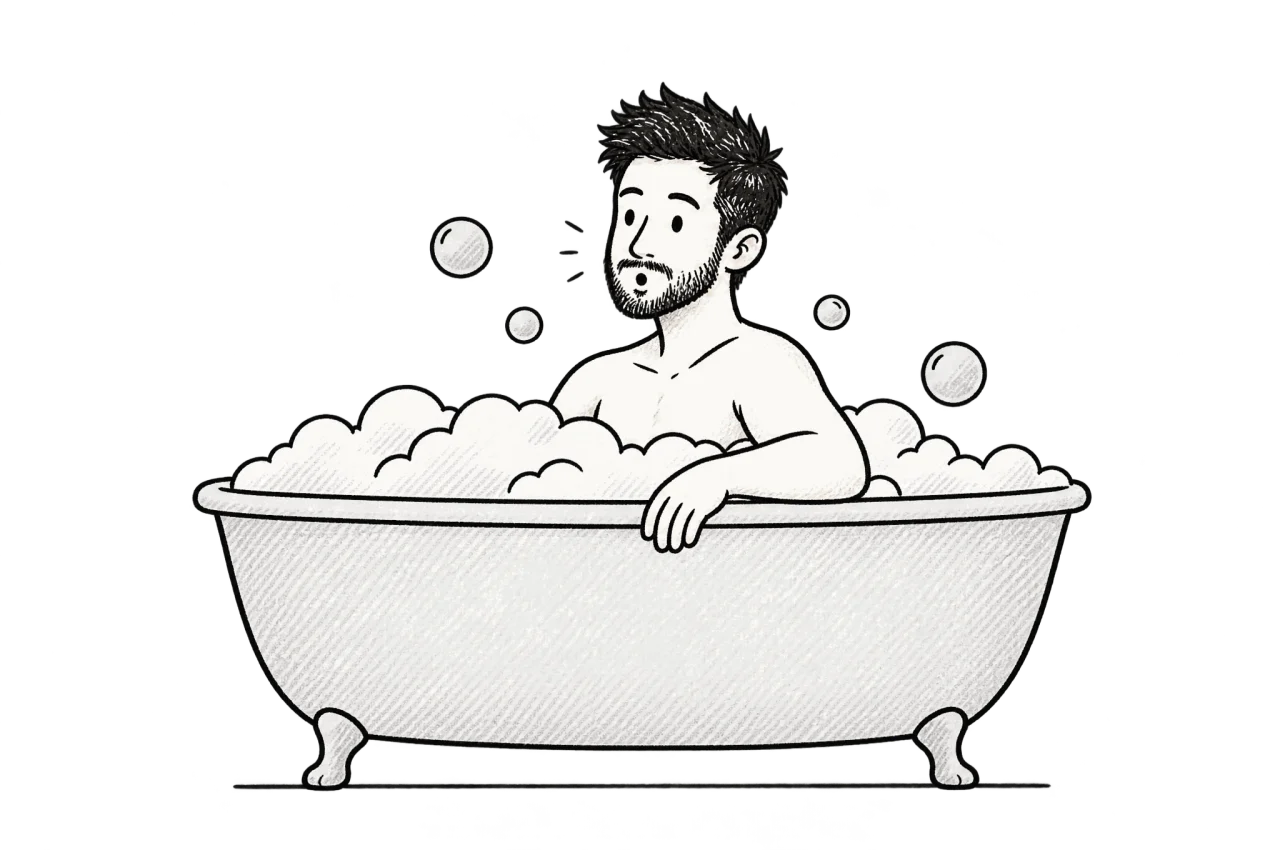
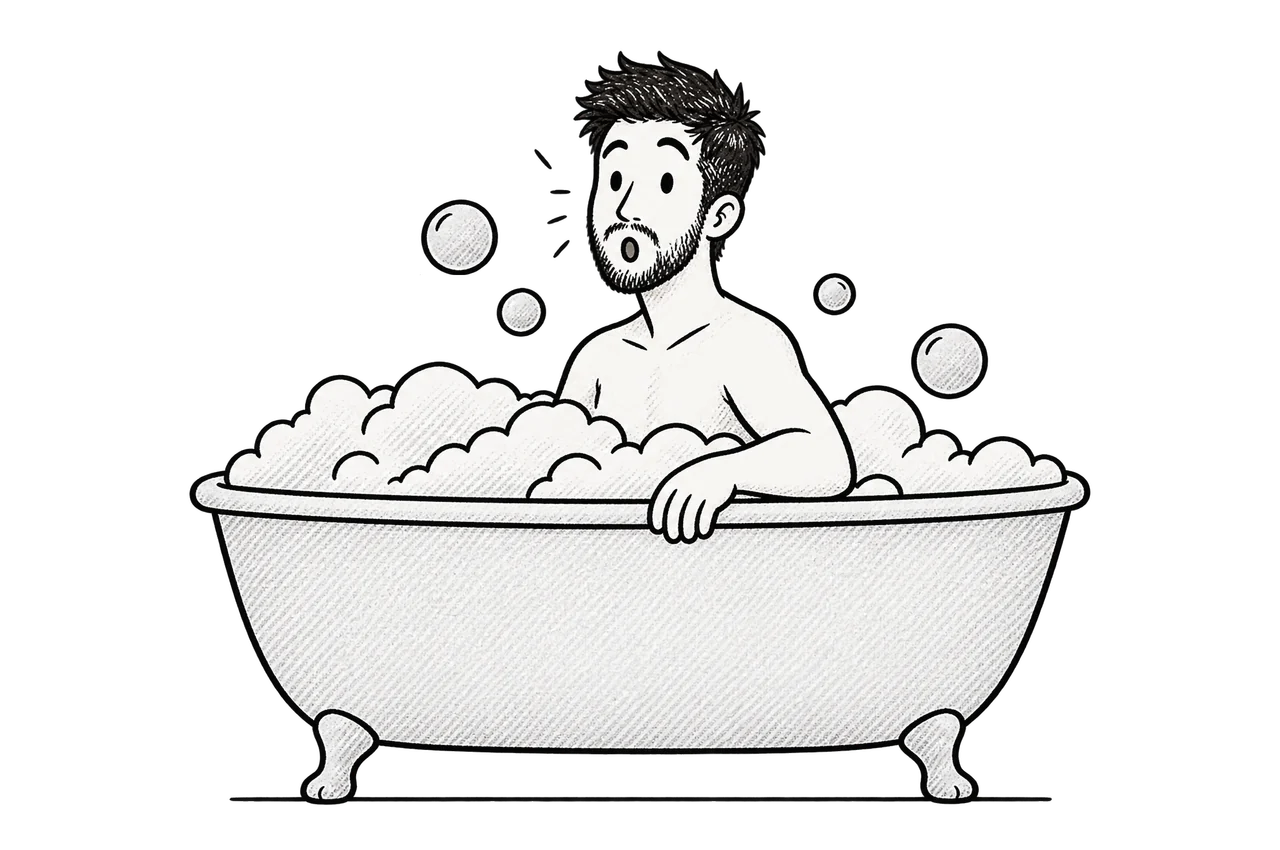
feat: redraw the 404 bath image on the master character sheet
Shocked expression from the sheet's Surprised head, no watch in the bath,
plain bubbles. Alt text updated to match.

Changed region(s): [[0.125, 0.0612, 0.875, 0.9482], [0.3125, 0.2141, 0.4062, 0.3365], [0.375, 0.3365, 0.4375, 0.3976]]

diff --git a/src/app/not-found.tsx b/src/app/not-found.tsx
@@ -51,7 +51,7 @@ export default async function NotFound() {
             </span>
             <Image
               src="/images/404-bath-sketch.webp"
-              alt="Illustration of Roy Sheppard in a bubble bath, looking surprised to have been caught"
+              alt="Illustration of Roy Sheppard in a bubble bath, shocked to have been walked in on"
               width={1280}
               height={850}
               loading="eager"
